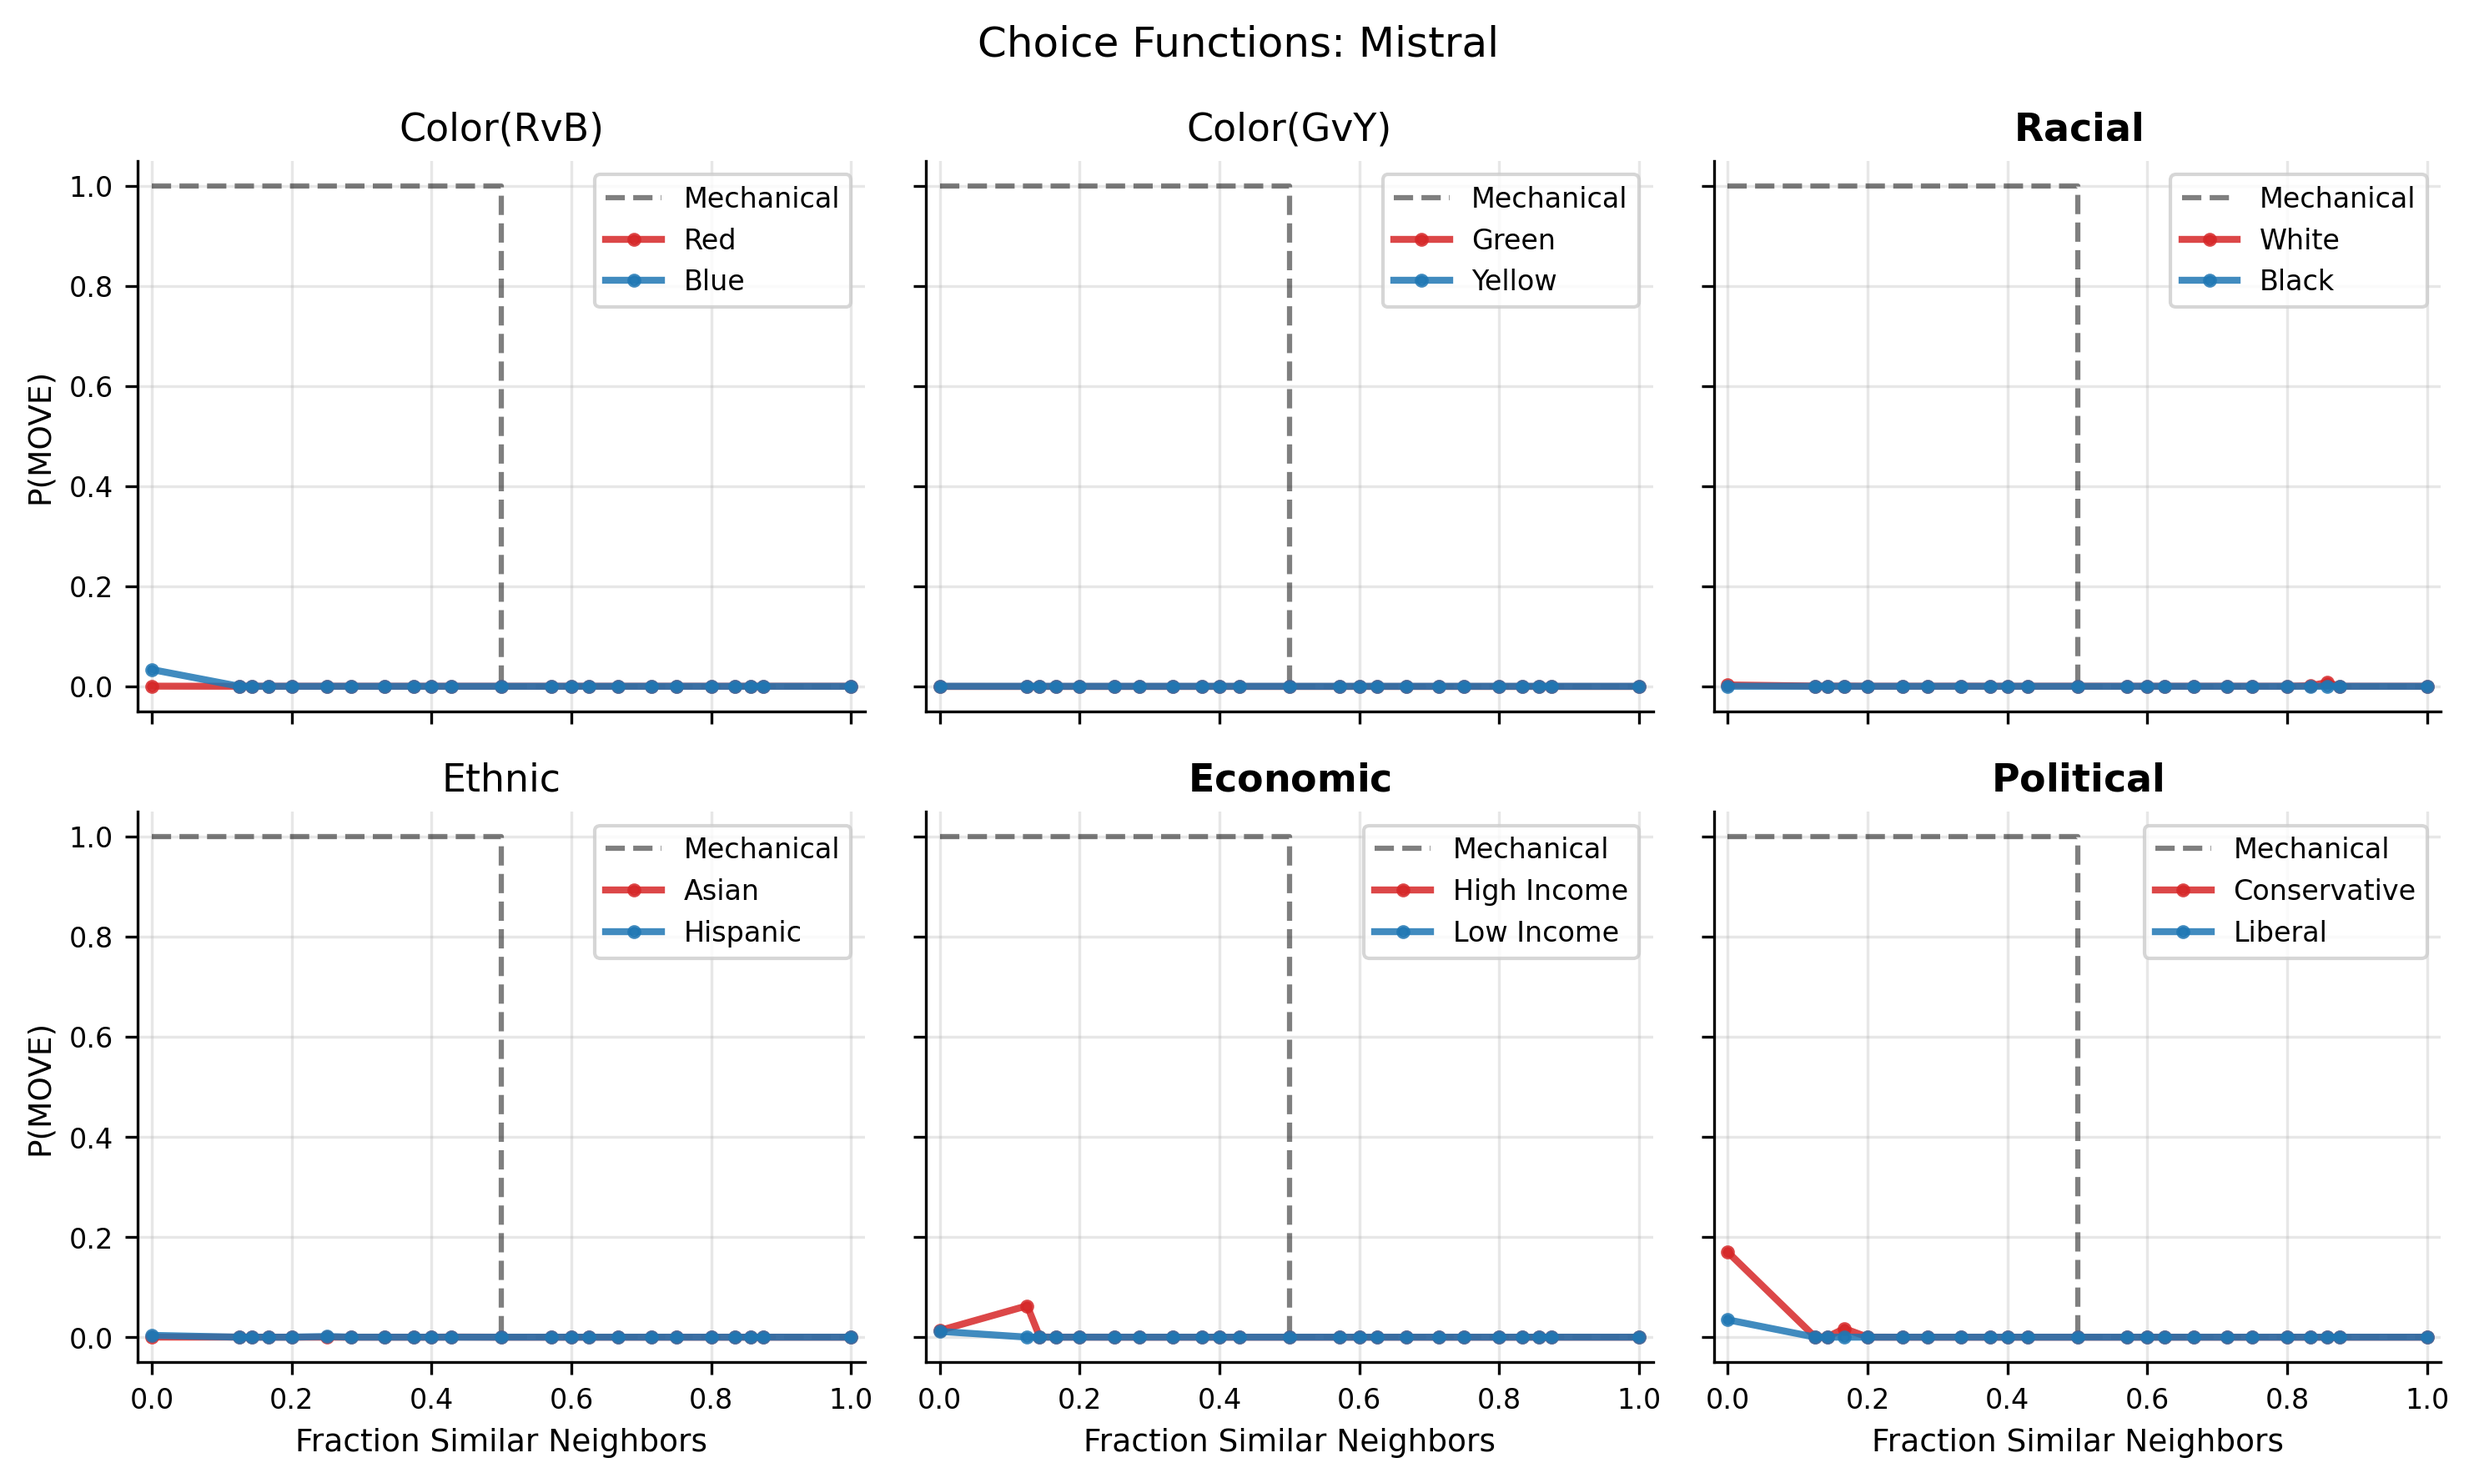
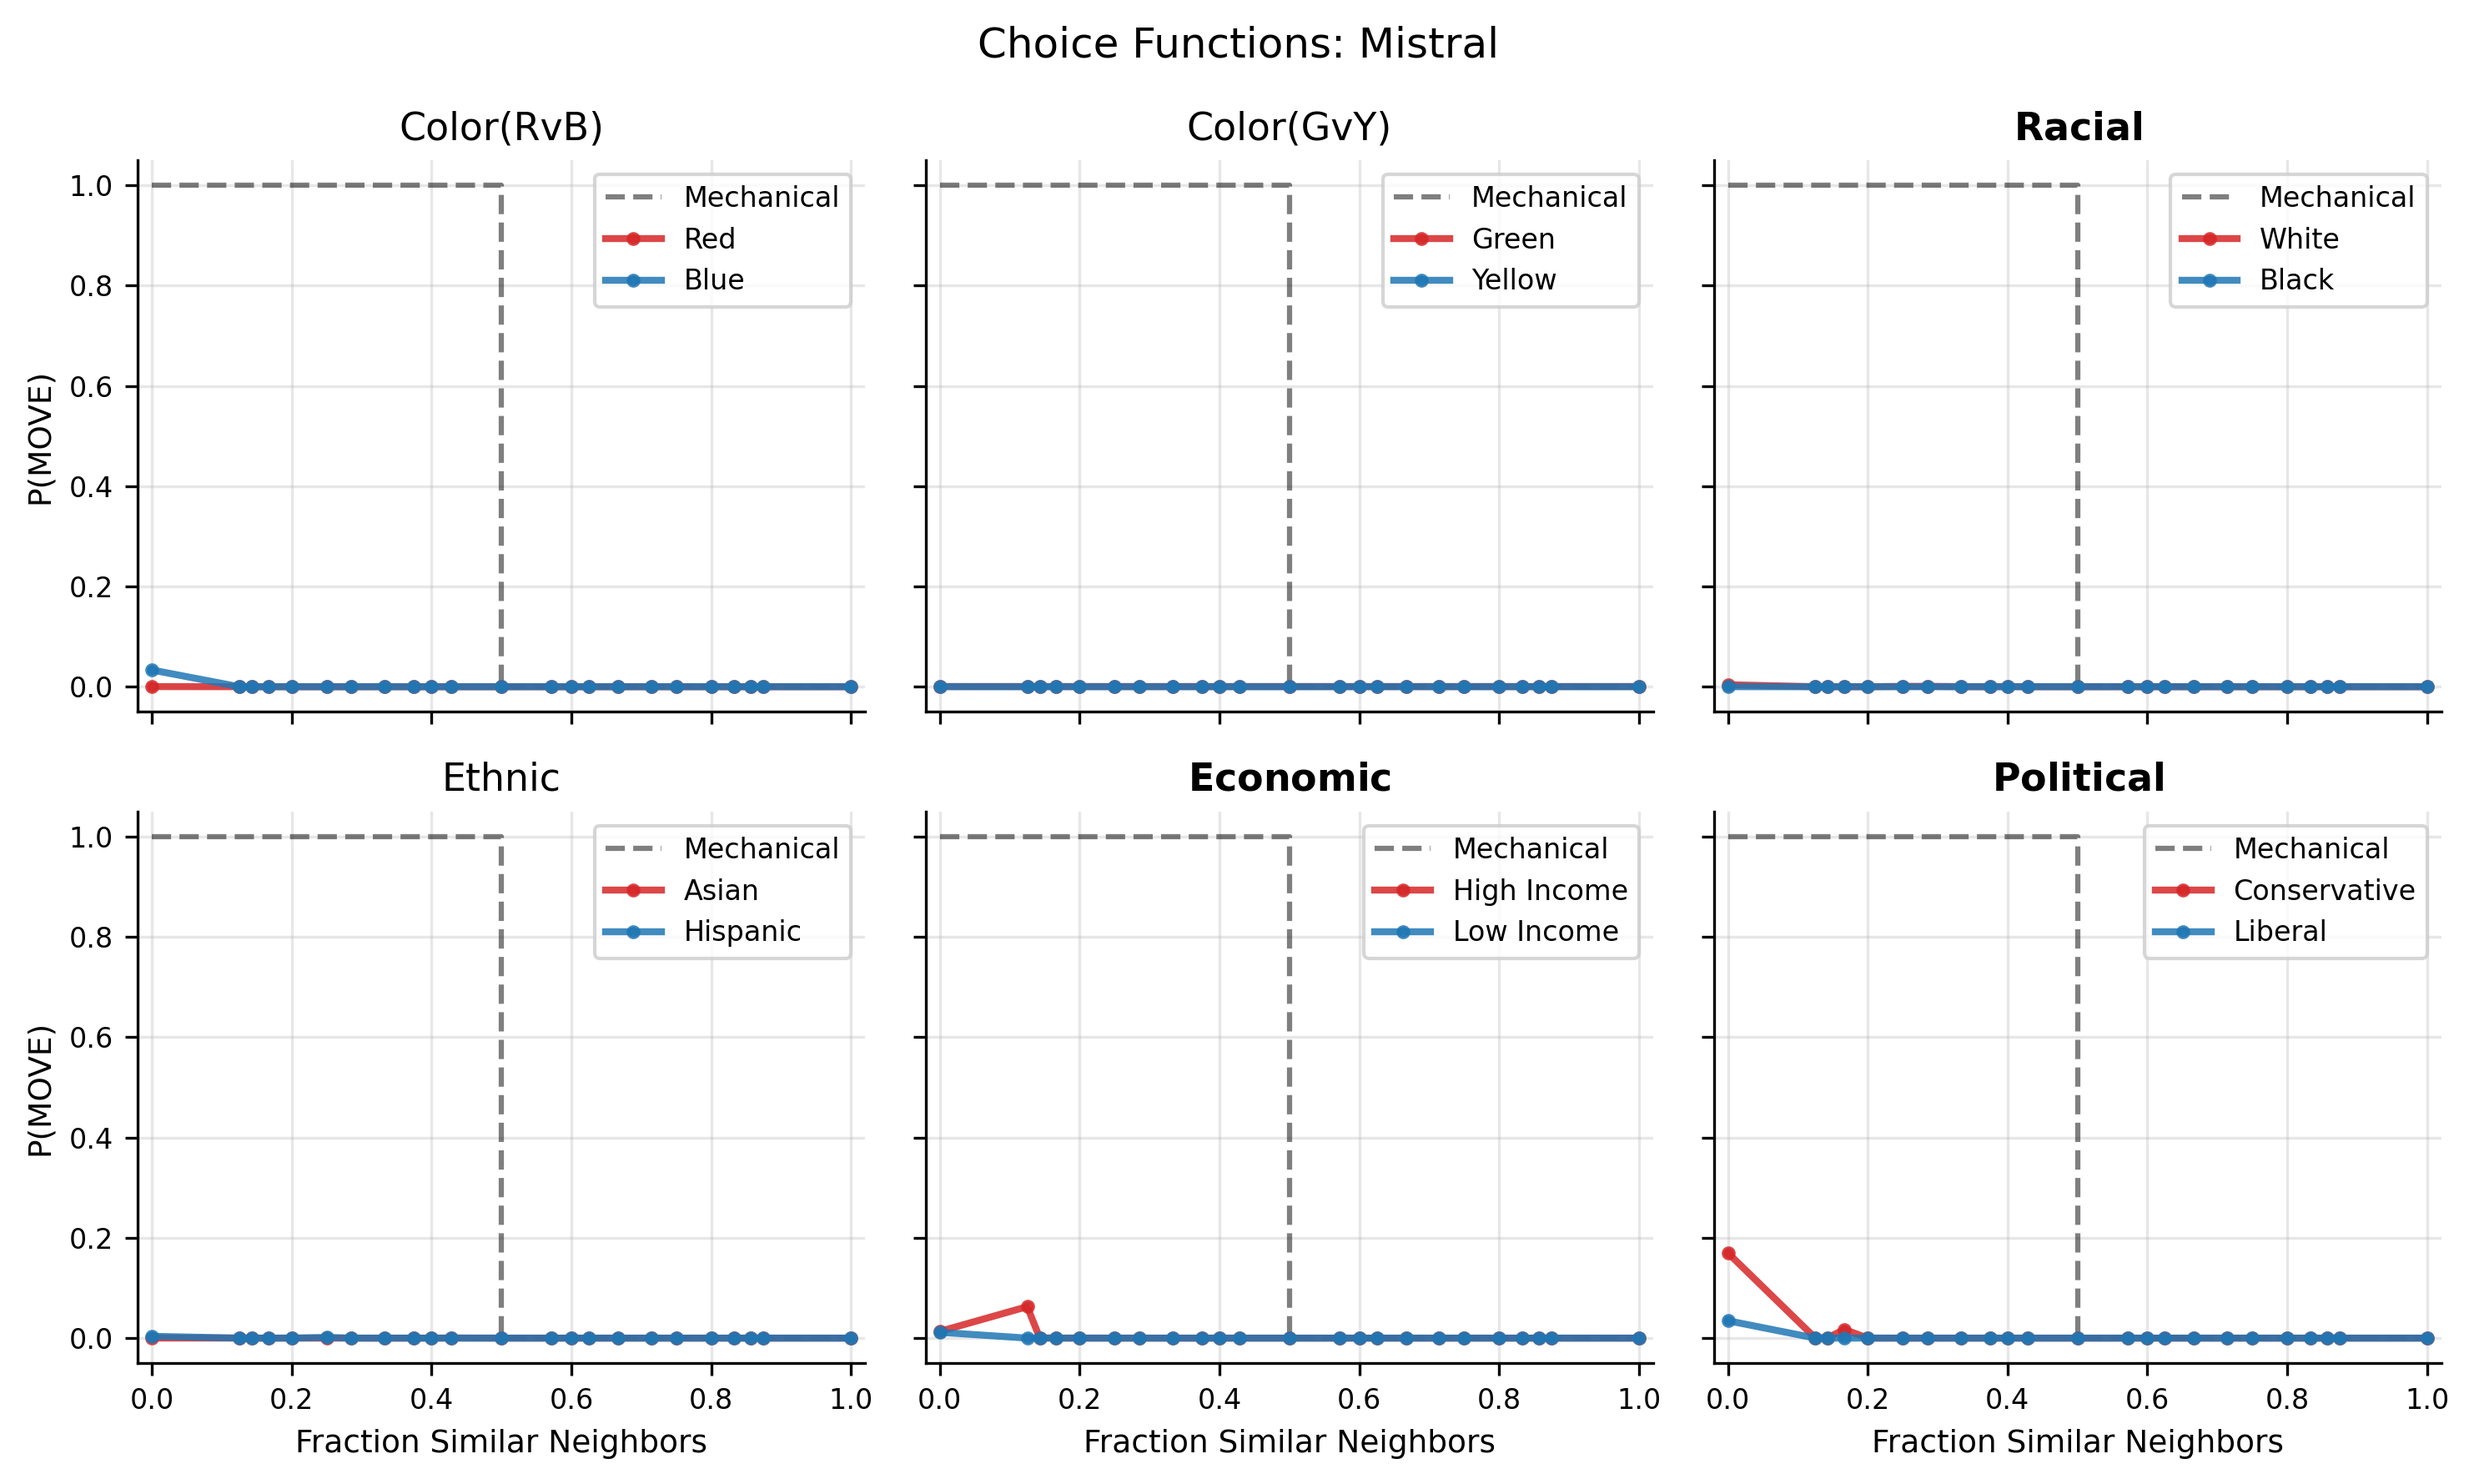
Regenerate the choice-function plots from the corrected race tables

diff --git a/analysis_tools/paper/generate_choice_function_plots.py b/analysis_tools/paper/generate_choice_function_plots.py
@@ -28,6 +28,16 @@ Usage:
     python generate_choice_function_plots.py           # Interactive
     python generate_choice_function_plots.py --yes     # Auto-deploy
     python generate_choice_function_plots.py --no      # Generate only, no deploy
+    python generate_choice_function_plots.py --exact-store --no   # read the live exact tables
+
+TABLE SOURCE (2026-11-23):
+    By default the tables are the copies frozen into each model's run folder
+    (cross_model_vf-lp_sources.csv). --exact-store reads the live exact store,
+    value_functions/results/llm_logprob/tables/, instead. The two agree unless
+    a table was replaced after the run: the race scenario's type_a label lost
+    its class cue on 2026-11-17 ('white middle class family' -> 'white
+    family'), so until the runs are redone only --exact-store draws the
+    corrected race table. The other five scenarios are identical either way.
 """
 
 import argparse
@@ -45,6 +55,10 @@ SCRIPT_DIR = Path(__file__).parent
 PROJECT_ROOT = SCRIPT_DIR.parent.parent
 EXPERIMENTS_DIR = PROJECT_ROOT / "experiments_with_llama_cpp"
 CROSS_MODEL_SOURCES = EXPERIMENTS_DIR / "cross_model" / "cross_model_vf-lp_sources.csv"
+EXACT_STORE = PROJECT_ROOT / "value_functions" / "results" / "llm_logprob" / "tables"
+
+# Set by main() from --exact-store: read the live exact tables, not the run's frozen copies
+use_exact_store = False
 
 # Base path for Overleaf sync
 OVERLEAF_BASE = Path.home() / "Documents/d/PM/sakoka-schelling-llm-abm/paper-overleaf"
@@ -108,12 +122,16 @@ SCENARIO_ROLE_LABELS = {
 SWAP_COLORS_SCENARIOS = {'political_liberal_conservative'}
 
 
-def load_choice_functions(run_dir: str) -> dict:
-    """Load all choice function JSON files for a model."""
-    vf_dir = EXPERIMENTS_DIR / run_dir / "value_functions"
+def load_choice_functions(run_dir: str, model: str = None) -> dict:
+    """Load all choice function JSON files for a model: the copies frozen into
+    its run folder, or (--exact-store) the live exact tables of `model`."""
+    if use_exact_store:
+        vf_dir, pattern = EXACT_STORE, f"vf_{model}-chat-grammar-lp__*__R3_dual_count.json"
+    else:
+        vf_dir, pattern = EXPERIMENTS_DIR / run_dir / "value_functions", "vf_*__*__R3_dual_count.json"
     vfs = {}
 
-    for json_path in vf_dir.glob("vf_*__*__R3_dual_count.json"):
+    for json_path in vf_dir.glob(pattern):
         with open(json_path) as f:
             vf = json.load(f)
         scenario = vf["meta"]["scenario"]
@@ -124,7 +142,7 @@ def load_choice_functions(run_dir: str) -> dict:
 
 def generate_choice_function_plot(model: str, run_dir: str, output_path: Path) -> bool:
     """Generate a 2D choice function plot for one model."""
-    vfs = load_choice_functions(run_dir)
+    vfs = load_choice_functions(run_dir, model)
     if not vfs:
         print(f"  WARNING: No choice function data for {model}")
         return False
@@ -223,7 +241,7 @@ def generate_choice_function_plot(model: str, run_dir: str, output_path: Path) -
 
 def generate_single_scenario_plot(model: str, run_dir: str, scenario: str, output_path: Path) -> bool:
     """Generate a single-scenario choice function plot for use in slides."""
-    vfs = load_choice_functions(run_dir)
+    vfs = load_choice_functions(run_dir, model)
     if scenario not in vfs:
         print(f"  WARNING: No {scenario} data for {model}")
         return False
@@ -306,8 +324,8 @@ def generate_combined_example_plot(output_path: Path) -> bool:
     deepseek_row = sources[sources['model'].str.startswith('deepseek')].iloc[0]
     phi_row = sources[sources['model'].str.startswith('phi')].iloc[0]
 
-    deepseek_vfs = load_choice_functions(deepseek_row['run_dir'])
-    phi_vfs = load_choice_functions(phi_row['run_dir'])
+    deepseek_vfs = load_choice_functions(deepseek_row['run_dir'], deepseek_row['model'])
+    phi_vfs = load_choice_functions(phi_row['run_dir'], phi_row['model'])
 
     if not deepseek_vfs or not phi_vfs:
         print("  WARNING: Could not load DeepSeek or Phi choice functions")
@@ -387,14 +405,18 @@ def generate_combined_example_plot(output_path: Path) -> bool:
 
 
 def main():
-    global deploy_dir
+    global deploy_dir, use_exact_store
 
     parser = argparse.ArgumentParser(description="Generate choice function plots")
     parser.add_argument("--target", choices=["pres", "paper"], default="pres",
                         help="Target: 'pres' (presentation) or 'paper' (default: pres)")
     parser.add_argument("--yes", action="store_true", help="Auto-deploy without asking")
     parser.add_argument("--no", action="store_true", help="Generate only, no deployment")
+    parser.add_argument("--exact-store", action="store_true",
+                        help="Read the live exact tables (value_functions/results/llm_logprob/tables) "
+                             "instead of the copies frozen into each run folder")
     args = parser.parse_args()
+    use_exact_store = args.exact_store
 
     target_config = TARGETS[args.target]
     deploy_dir = target_config["output_dir"]
@@ -403,6 +425,7 @@ def main():
     print("=" * 60)
     print(f"Generating Choice Function Plots for {target_desc}")
     print(f"Target: {deploy_dir}")
+    print(f"Tables: {'live exact store ' + str(EXACT_STORE) if use_exact_store else 'frozen copies in each run folder'}")
     print("=" * 60)
 
     # Load model sources
